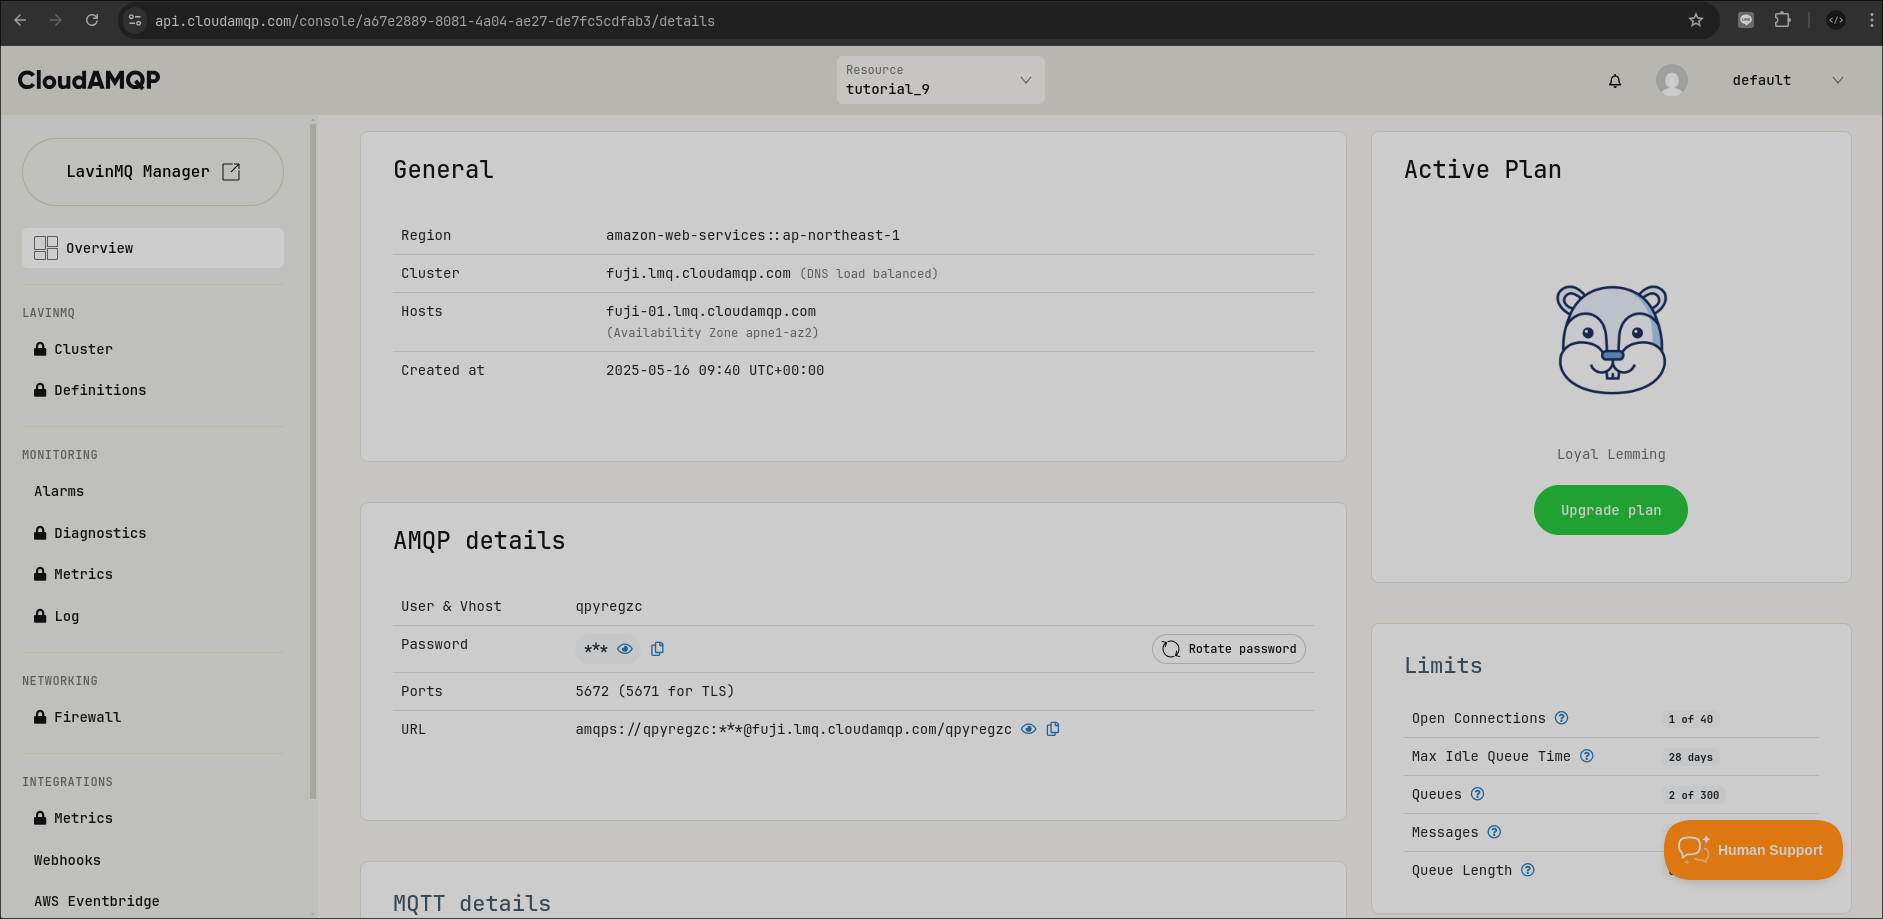
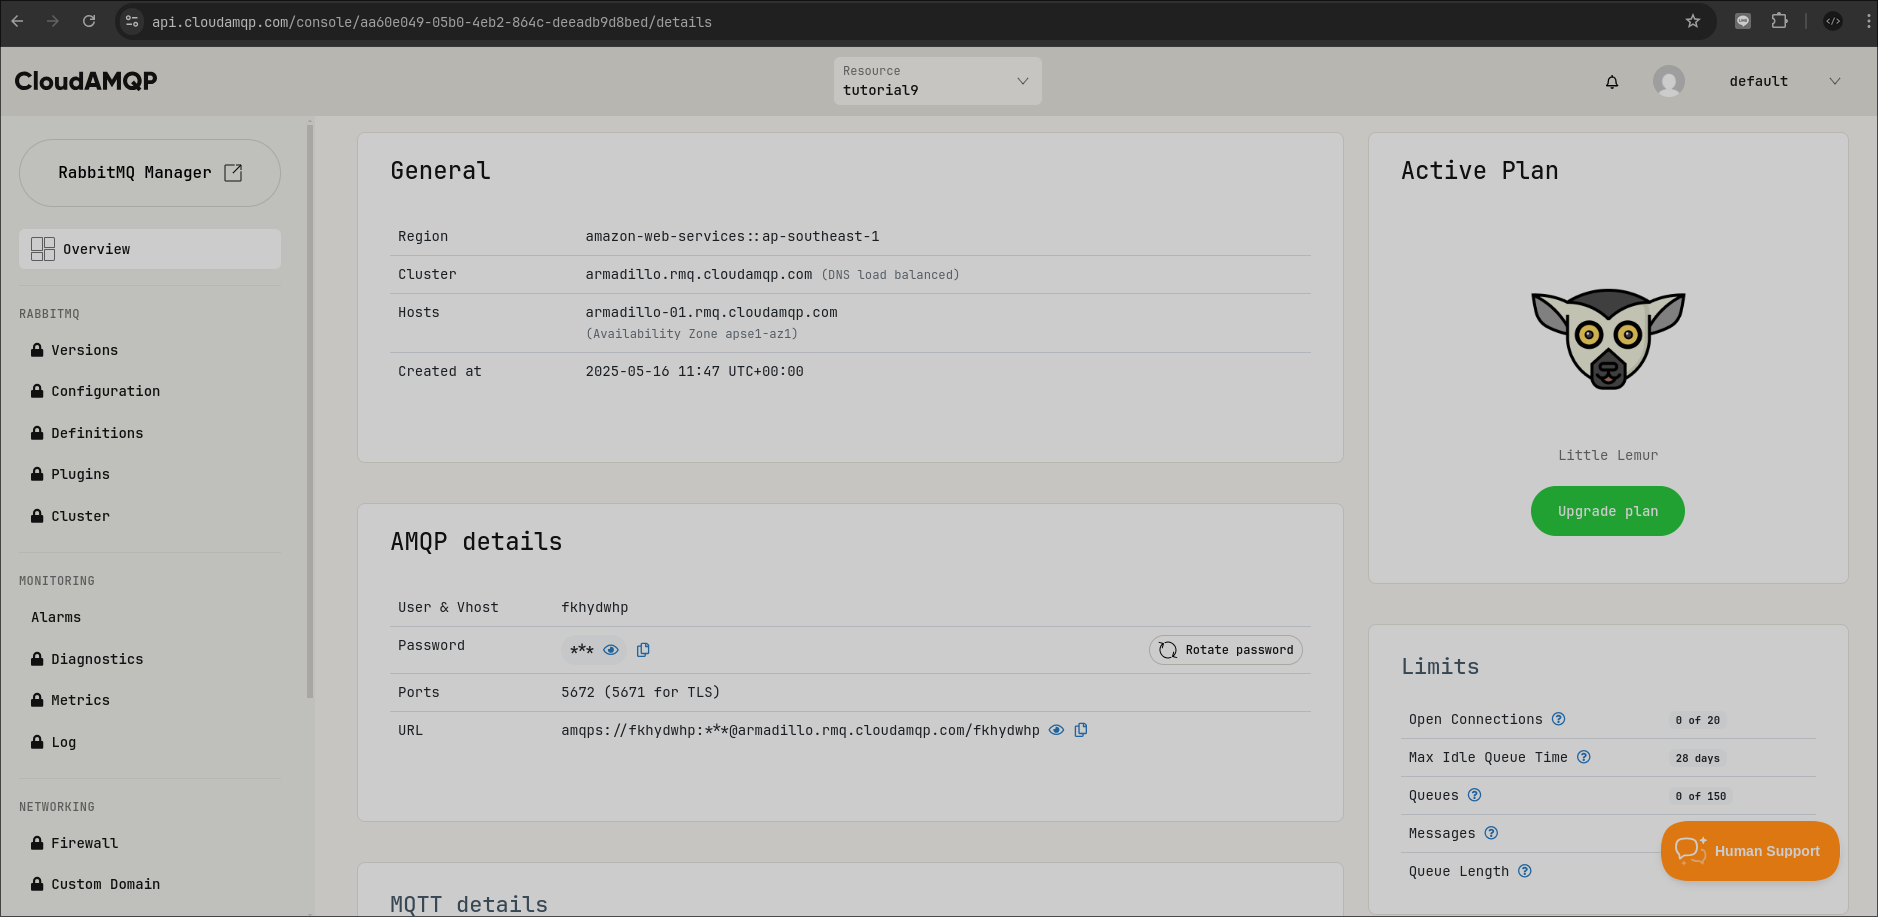
refactor: replaced lavinmq images with rabbitmq (didn't notice different broker)

diff --git a/README.md b/README.md
@@ -50,7 +50,7 @@ When multiple subscribers are running and listening to the same queue or routing
 1. Create a RabbitMQ Cloud Instance.
 
 ![cloud amqp screenshot](./images/cloudamqp_screenshot.png)
-![lavinmq screenshot](./images/lavinmq_screenshot.png)
+![cloud rabbitmq screenshot](./images/cloud_rabbitmq_screenshot.png)
 
 2. Configure VPS firewall to accept traffic from port 5672.
 
@@ -86,4 +86,4 @@ The Rust application on the VPS already has a delay when processing each request
 The effect is further intensified when running multiple publishers on different terminals.
 
 ![cloud multiple publishers screenshot](./images/cloud_multiple_publishers_screenshot.png)
-![cloud lavinmq multiple items impact screenshot](./images/cloud_lavinmq_multiple_items_impact_screenshot.png)
+![cloud rabbitmq multiple items impact screenshot](./images/cloud_rabbitmq_multiple_items_impact_screenshot.png)
